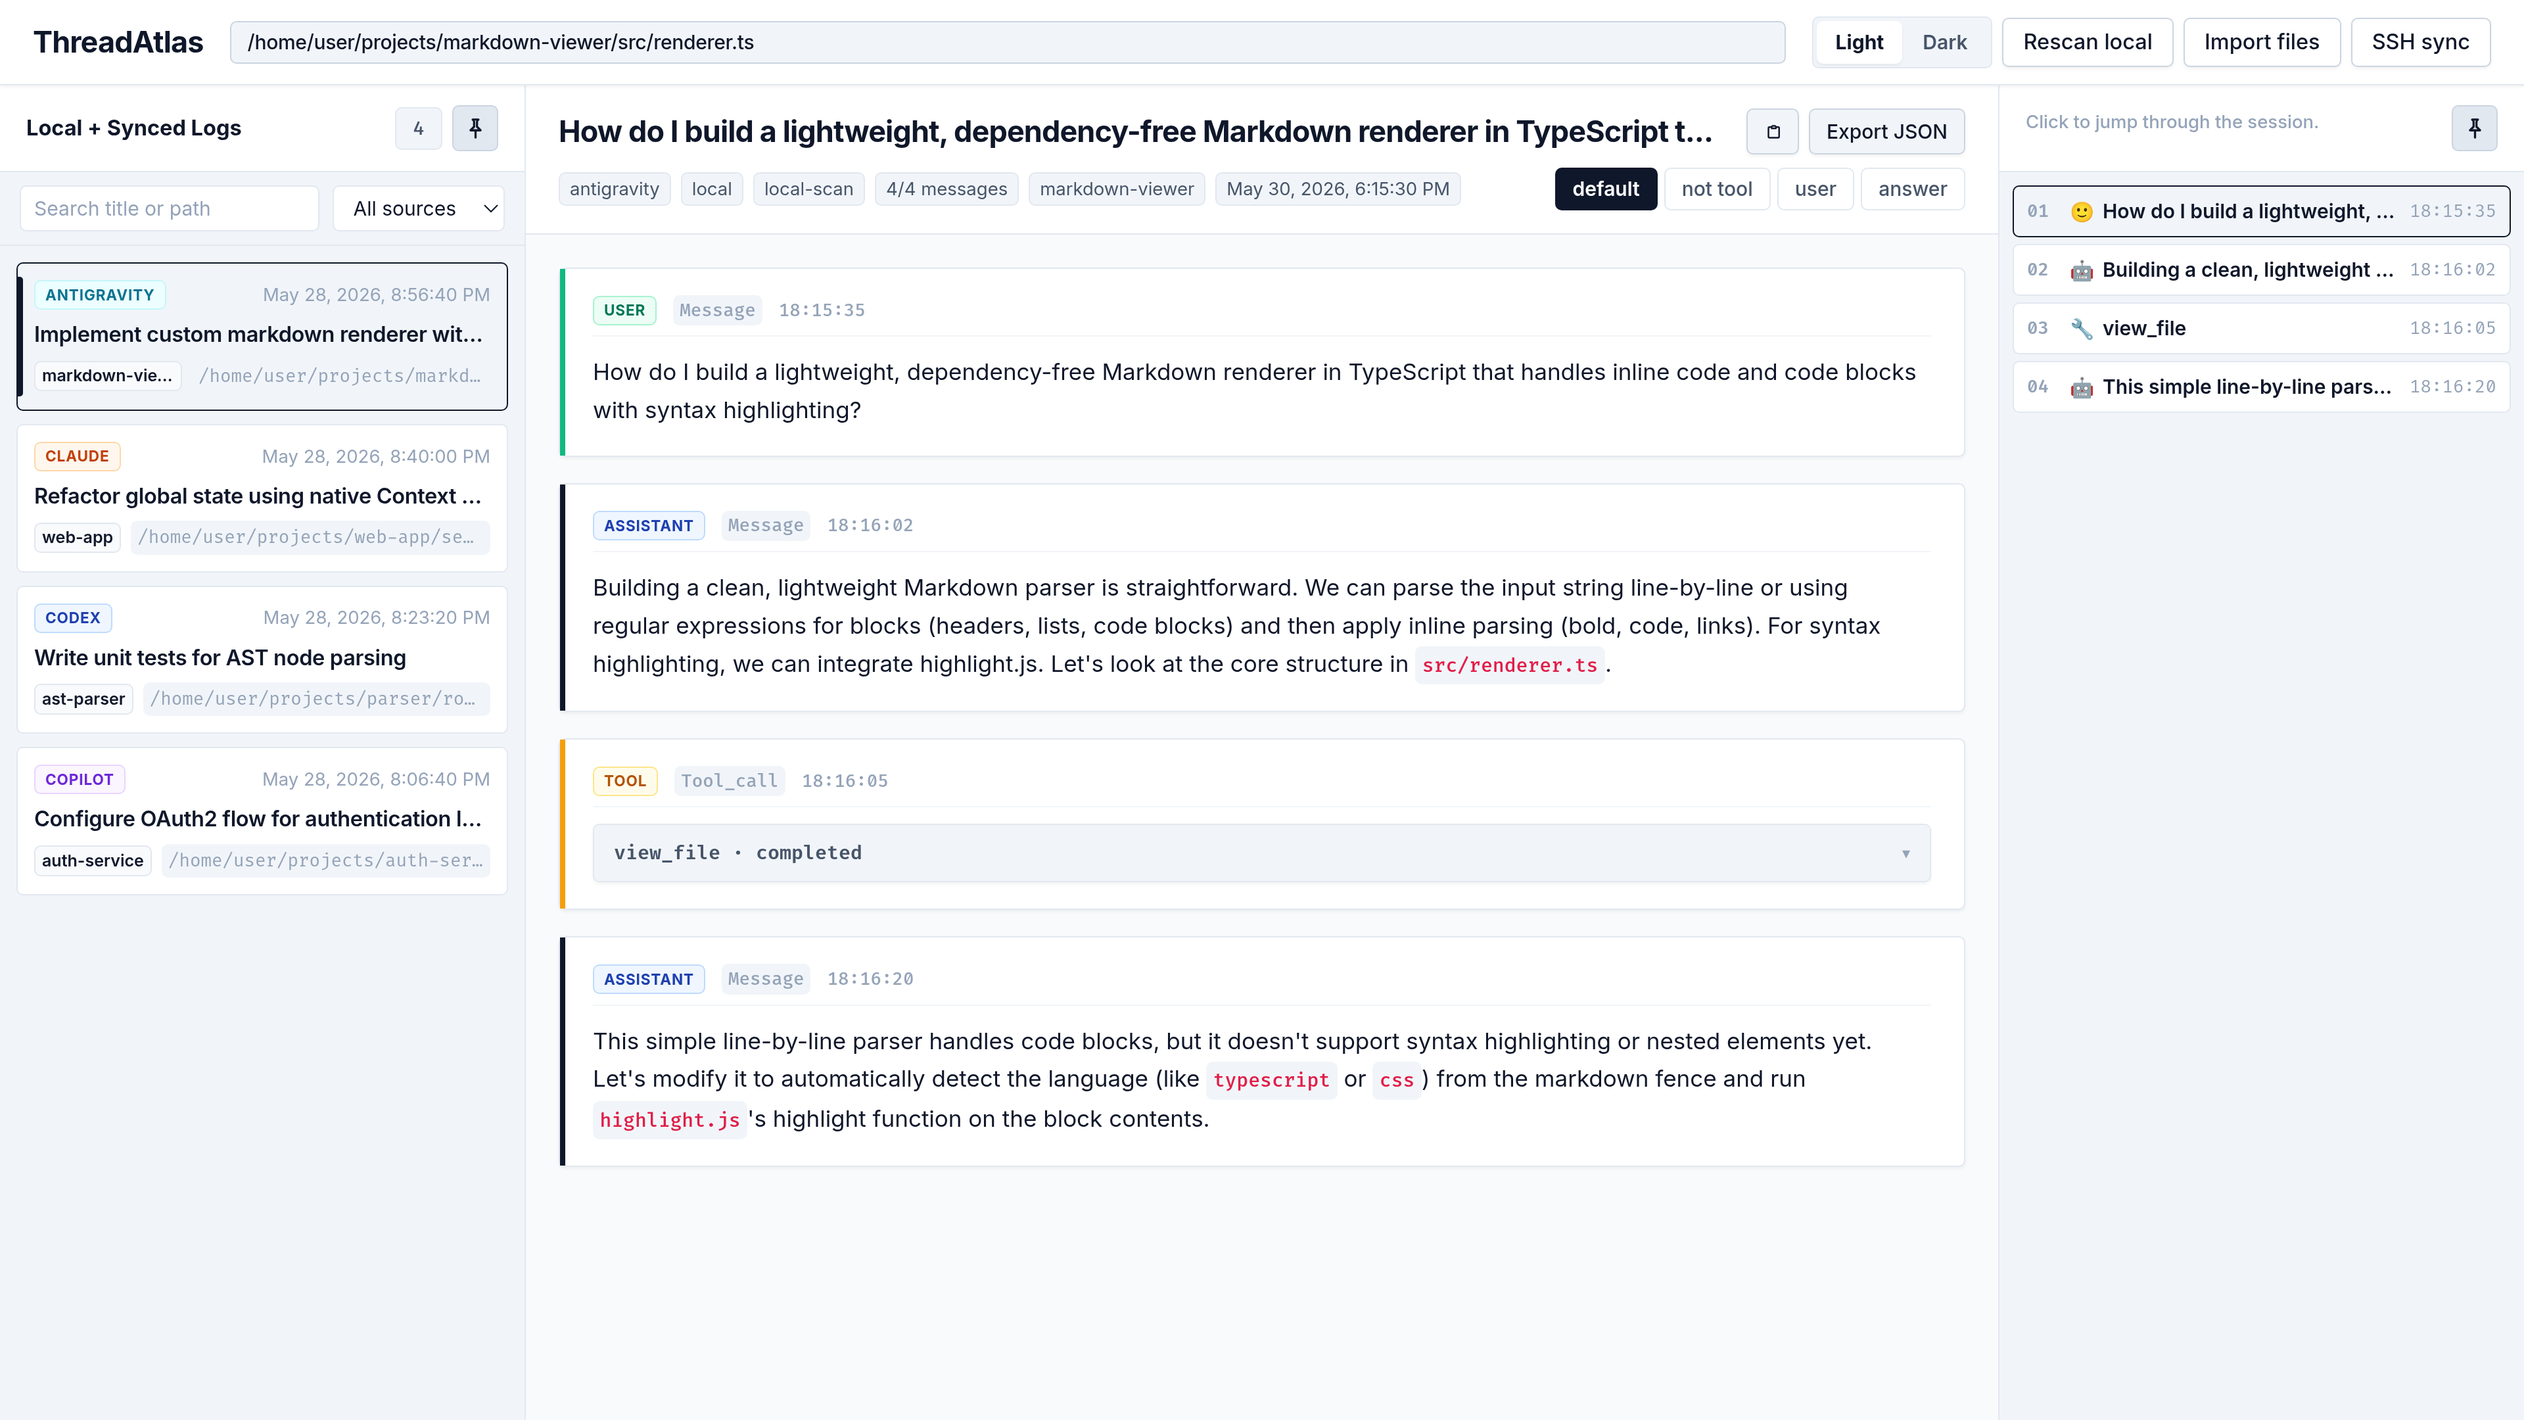
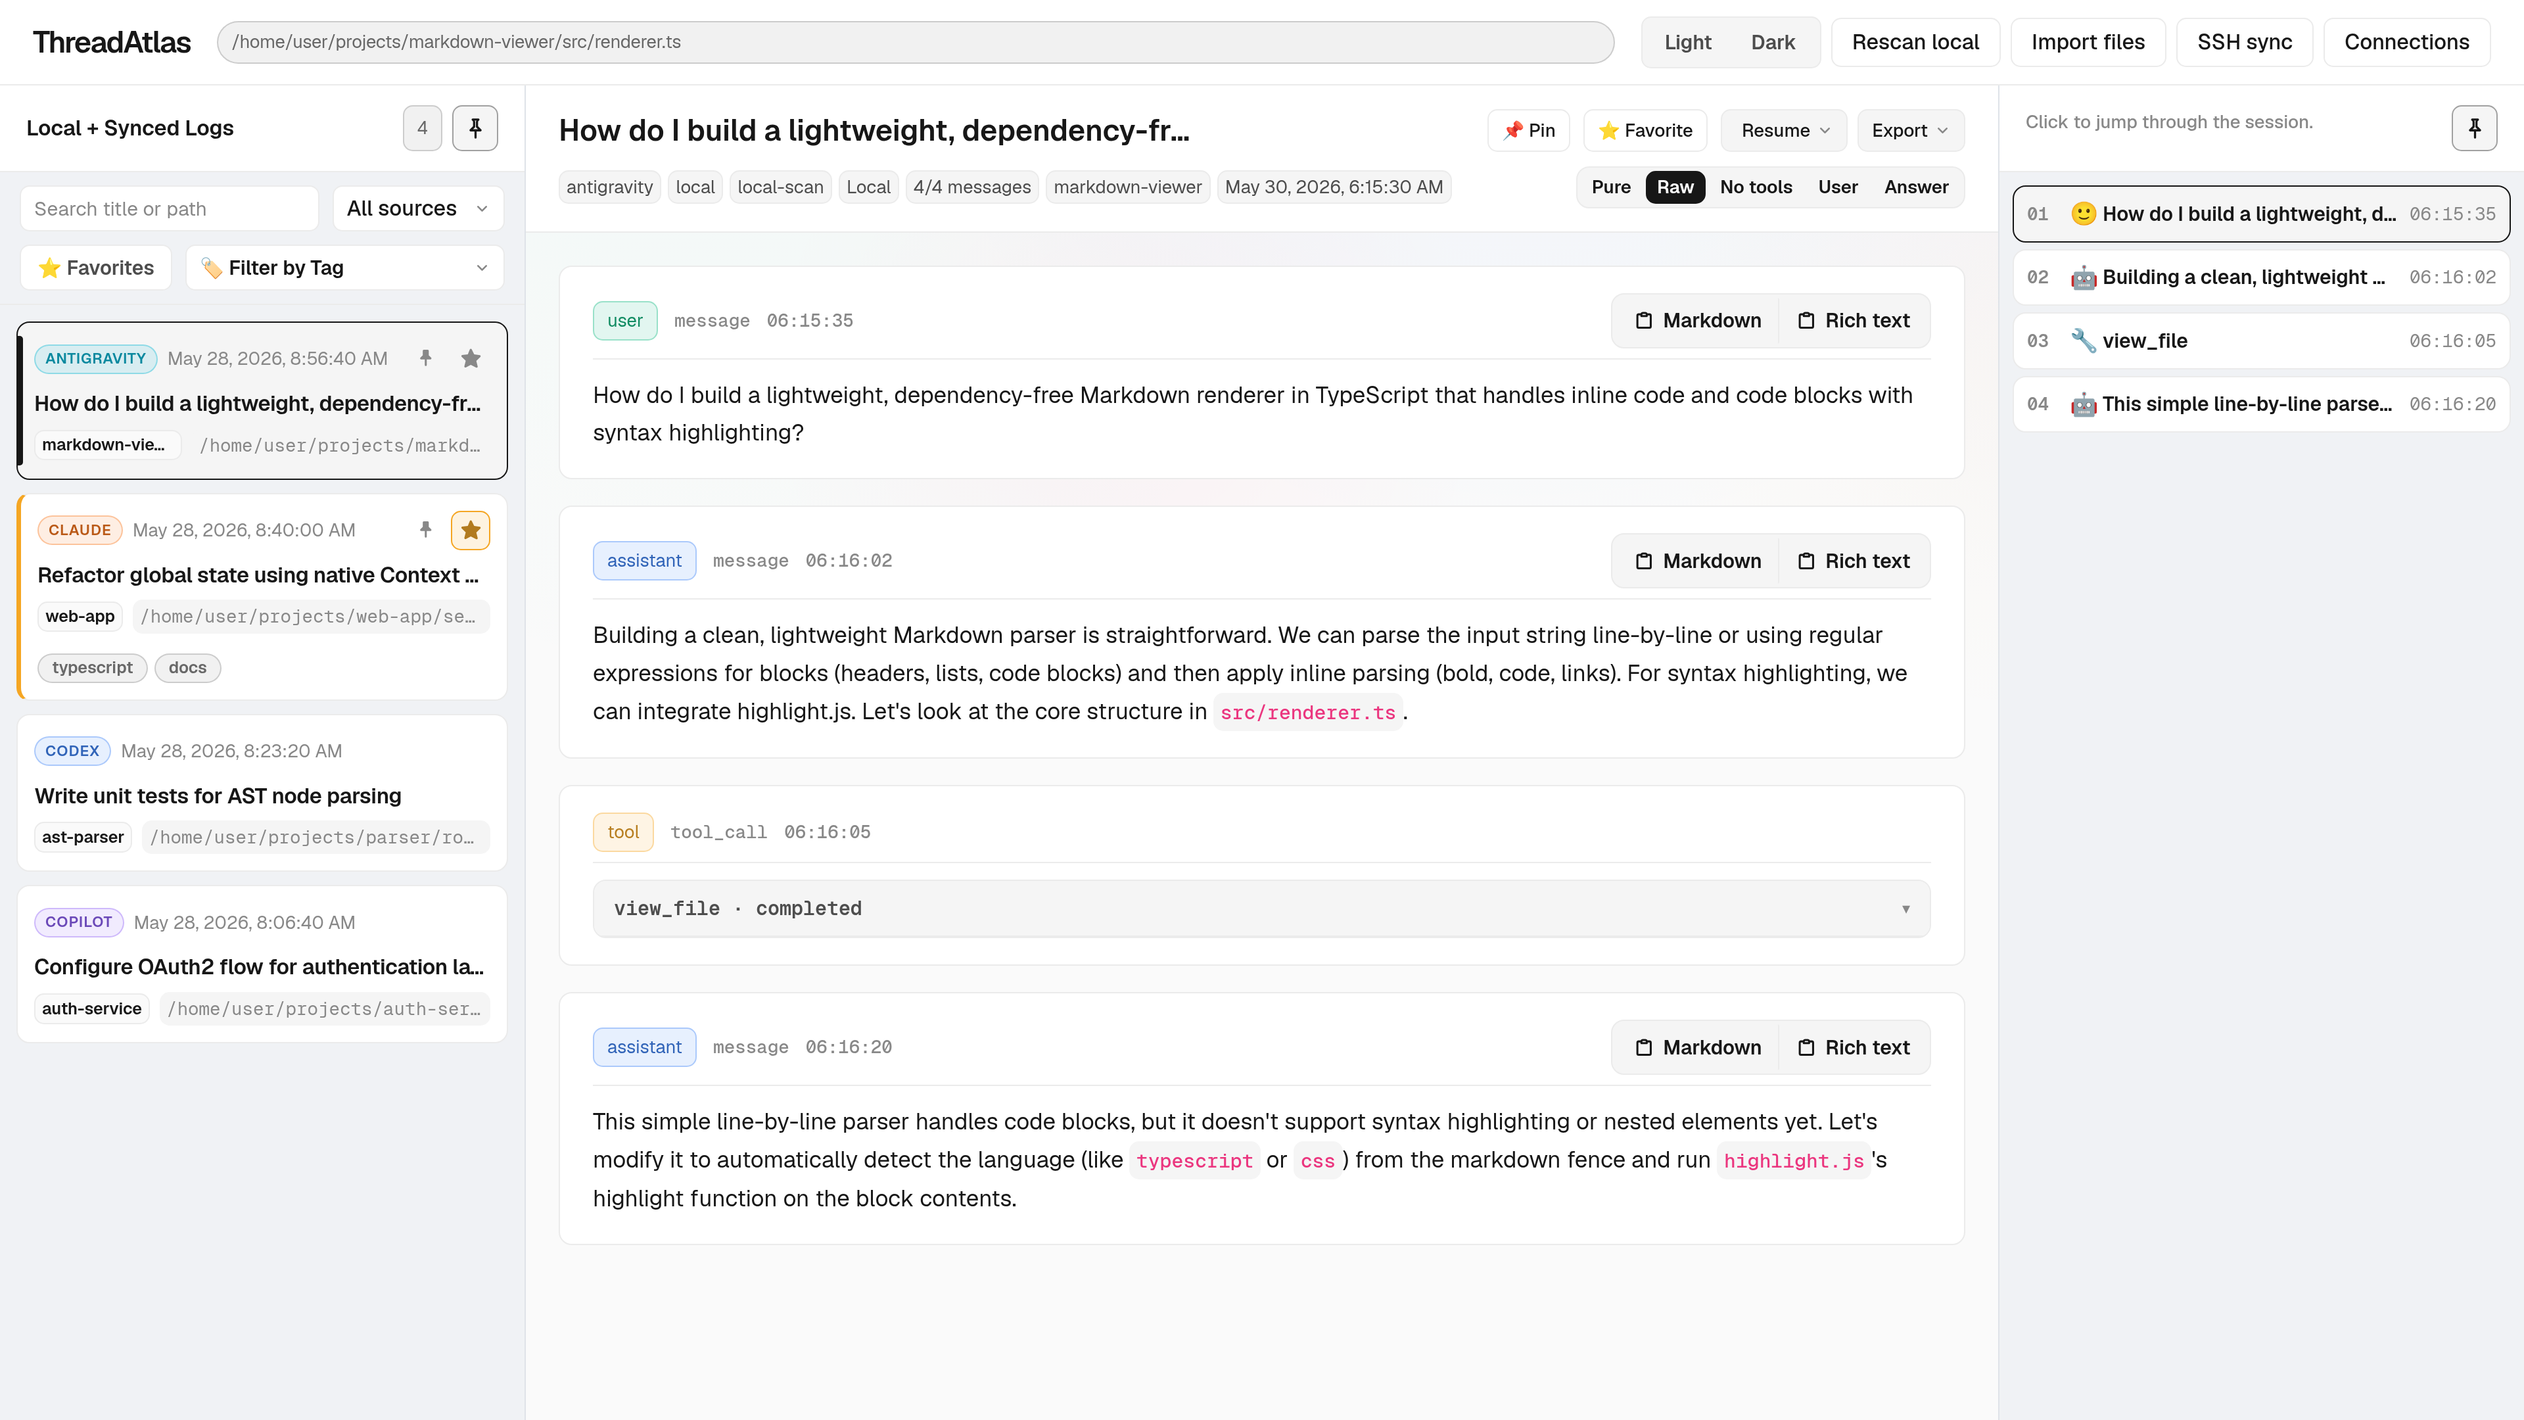
style: refine session controls and metadata

diff --git a/src/ui/messageRenderer.ts b/src/ui/messageRenderer.ts
@@ -237,13 +237,7 @@ export function renderMessage(
 
     const header = document.createElement("div");
     header.className = "log-entry-header";
-    const messageTime = formatDisplayTime(message.createdAt);
-    const messageTimeTitle = formatDateTimeLong(message.createdAt);
-    header.innerHTML = `
-      <span class="log-role-badge ui-badge ${message.role}">${escapeHtml(message.role)}</span>
-      <span class="message-type">${escapeHtml(message.rawType ?? "message")}</span>
-      <span class="message-time" title="${escapeHtml(messageTimeTitle)}">${escapeHtml(messageTime)}</span>
-    `;
+    header.append(createLogEntryMeta(message));
     contentWrapper.append(header);
 
     if (displayHTML) {
@@ -270,13 +264,7 @@ export function renderMessage(
 
   const header = document.createElement("div");
   header.className = "log-entry-header";
-  const messageTime = formatDisplayTime(message.createdAt);
-  const messageTimeTitle = formatDateTimeLong(message.createdAt);
-  header.innerHTML = `
-    <span class="log-role-badge ui-badge ${message.role}">${escapeHtml(message.role)}</span>
-    <span class="message-type">${escapeHtml(message.rawType ?? "message")}</span>
-    <span class="message-time" title="${escapeHtml(messageTimeTitle)}">${escapeHtml(messageTime)}</span>
-  `;
+  header.append(createLogEntryMeta(message));
 
   entry.append(header);
 
@@ -334,6 +322,29 @@ export function renderMessage(
   return entry;
 }
 
+function createLogEntryMeta(message: Message): HTMLElement {
+  const meta = document.createElement("div");
+  meta.className = "log-entry-meta";
+  const messageTime = formatDisplayTime(message.createdAt);
+  const messageTimeTitle = formatDateTimeLong(message.createdAt);
+
+  const role = document.createElement("span");
+  role.className = `log-role-badge ui-badge ${message.role}`;
+  role.textContent = message.role;
+
+  const type = document.createElement("span");
+  type.className = "message-type";
+  type.textContent = message.rawType ?? "message";
+
+  const time = document.createElement("span");
+  time.className = "message-time";
+  time.title = messageTimeTitle;
+  time.textContent = messageTime;
+
+  meta.append(role, type, time);
+  return meta;
+}
+
 function createMessageCopyActions(markdownSource: string, content: HTMLElement): HTMLElement {
   const actions = document.createElement("div");
   actions.className = "message-copy-actions";
@@ -341,8 +352,8 @@ function createMessageCopyActions(markdownSource: string, content: HTMLElement):
   actions.setAttribute("aria-label", "Copy message content");
 
   actions.append(
-    createMessageCopyButton("MD", "Copy Markdown source", () => copyText(markdownSource)),
-    createMessageCopyButton("Rich", "Copy rendered rich text", () => copyRichText(content))
+    createMessageCopyButton("Markdown", "Copy Markdown source", () => copyText(markdownSource)),
+    createMessageCopyButton("Rich text", "Copy rendered rich text", () => copyRichText(content))
   );
   return actions;
 }
@@ -356,6 +367,7 @@ function createMessageCopyButton(label: string, title: string, copy: () => Promi
   button.className = "message-copy-button ui-chip";
   button.title = title;
   button.setAttribute("aria-label", title);
+  button.setAttribute("data-copy-label", label);
   button.innerHTML = defaultContent;
 
   button.addEventListener("click", async (event) => {
@@ -366,10 +378,10 @@ function createMessageCopyButton(label: string, title: string, copy: () => Promi
     try {
       await copy();
       button.dataset.state = "success";
-      button.innerHTML = `${successIcon()}<span>${label}</span>`;
+      button.innerHTML = `${successIcon()}<span>Copied</span>`;
     } catch {
       button.dataset.state = "error";
-      button.innerHTML = `${errorIcon()}<span>${label}</span>`;
+      button.innerHTML = `${errorIcon()}<span>Retry</span>`;
     }
 
     resetTimer = window.setTimeout(() => {

diff --git a/src/styles/session.css b/src/styles/session.css
@@ -36,7 +36,7 @@
 }
 .chat-title-row, .chat-meta-row {
   justify-content: space-between;
-  gap: var(--space-3);
+  gap: var(--space-2);
 }
 .chat-meta-row {
   flex-wrap: wrap;
@@ -69,7 +69,7 @@
   display: flex;
   flex-wrap: wrap;
   align-items: center;
-  gap: 6px;
+  gap: var(--space-1);
   color: var(--text-secondary);
   font-size: 12px;
 }
@@ -77,7 +77,7 @@
   display: inline-flex;
   align-items: center;
   min-height: 18px;
-  padding: 1px 6px;
+  padding: 1px var(--space-1);
   border: 1px solid var(--border-default);
   border-radius: var(--radius-control);
   background: var(--bg-muted);
@@ -121,11 +121,34 @@
 }
 .chat-filter-row {
   gap: var(--space-3);
+  margin-left: auto;
 }
 .filter-chip-row {
   flex-wrap: wrap;
   justify-content: flex-end;
-  gap: var(--space-1);
+  gap: 2px;
+  padding: 2px;
+  border: 1px solid var(--border-default);
+  border-radius: var(--radius-panel);
+  background: var(--bg-muted);
+}
+.filter-chip {
+  min-height: 20px;
+  padding-inline: 6px;
+  border-color: transparent;
+  border-radius: var(--radius-control);
+  background: transparent;
+  font-size: 11px;
+  font-weight: 600;
+}
+.filter-chip:hover, .message-copy-button:hover {
+  border-color: var(--border-default);
+  background: var(--bg-panel);
+}
+.filter-chip.active {
+  border-color: var(--accent);
+  background: var(--accent);
+  color: var(--accent-inverse);
 }
 .parent-session-backlink {
   color: var(--text-muted);
@@ -293,12 +316,41 @@
   padding-bottom: 6px;
   border-bottom: 1px solid var(--border-default);
 }
+.log-entry-meta {
+  display: flex;
+  align-items: center;
+  gap: 10px;
+}
+.log-entry-meta .log-role-badge {
+  min-height: 24px;
+  padding-inline: var(--space-2);
+  border-radius: var(--radius-control);
+}
 .message-copy-actions {
-  gap: var(--space-1);
+  gap: 0;
   margin-left: auto;
+  padding: 2px;
+  border: 1px solid var(--border-default);
+  border-radius: var(--radius-panel);
+  background: var(--bg-muted);
+}
+.message-copy-button {
+  min-height: var(--control-compact);
+  gap: 6px;
+  padding-inline: 9px;
+  border-color: transparent;
+  border-radius: var(--radius-control);
+  background: transparent;
+  font-size: 12px;
+  font-weight: 600;
+}
+.message-copy-button + .message-copy-button {
+  border-left: 1px solid var(--border-default);
+  border-top-left-radius: 0;
+  border-bottom-left-radius: 0;
 }
 .message-copy-button svg {
-  width: 12px;
+  width: 13px;
   fill: currentColor;
 }
 .log-role-badge.user {

diff --git a/scripts/capture-screenshot.ts b/scripts/capture-screenshot.ts
@@ -244,14 +244,18 @@ async function main() {
 
     // Keep the documentation capture deterministic and expose tool calls that are
     // hidden by the application's default "pure" message filter.
-    await page.evaluateOnNewDocument((selectedTheme) => {
+    await page.evaluateOnNewDocument(({ selectedTheme, favoriteKey }) => {
       localStorage.setItem("thread-atlas-message-filter", "raw");
       localStorage.setItem("thread-atlas-sidebar-pinned", "true");
       localStorage.setItem("thread-atlas-timeline-pinned", "true");
+      localStorage.setItem("thread-atlas-favorite-sessions", JSON.stringify([favoriteKey]));
+      localStorage.setItem("thread-atlas-favorite-metadata", JSON.stringify({
+        [favoriteKey]: { tags: ["typescript", "docs"], notes: "" }
+      }));
       if (selectedTheme) {
         localStorage.setItem("thread-atlas-theme", selectedTheme);
       }
-    }, theme);
+    }, { selectedTheme: theme, favoriteKey: mockDescriptors[1].key });
 
     // Enable request interception to mock API calls containing sensitive local information
     await page.setRequestInterception(true);

diff --git a/tests/message-copy.test.ts b/tests/message-copy.test.ts
@@ -55,13 +55,20 @@ function renderCopyableMessage(overrides: Partial<Message> = {}): HTMLElement {
 
 test("each rendered message content has Markdown and rich-text copy actions", () => {
   const entry = renderCopyableMessage();
+  const meta = entry.querySelector(".log-entry-meta");
   const actions = entry.querySelector(".message-copy-actions");
+  assert.ok(meta);
   assert.ok(actions);
+  assert.ok(meta.querySelector(".log-role-badge"));
+  assert.ok(meta.querySelector(".message-type"));
+  assert.ok(meta.querySelector(".message-time"));
 
   const buttons = actions.querySelectorAll("button");
   assert.equal(buttons.length, 2);
   assert.equal(buttons[0].getAttribute("aria-label"), "Copy Markdown source");
   assert.equal(buttons[1].getAttribute("aria-label"), "Copy rendered rich text");
+  assert.equal(buttons[0].getAttribute("data-copy-label"), "Markdown");
+  assert.equal(buttons[1].getAttribute("data-copy-label"), "Rich text");
   assert.equal(buttons.every((button) => button.classList.contains("ui-chip")), true);
 });
 

diff --git a/src/styles/sidebar.css b/src/styles/sidebar.css
@@ -73,14 +73,18 @@
   display: flex;
   grid-column: 1 / -1;
   align-items: center;
-  gap: 6px;
+  gap: var(--space-2);
   min-width: 0;
-  padding-top: 6px;
 }
 .chip-btn {
+  min-height: var(--control-compact);
   flex-shrink: 0;
-  gap: var(--space-1);
+  gap: 6px;
+  padding-inline: 10px;
+  border-radius: var(--radius-control);
+  background: var(--bg-panel);
   color: var(--text-secondary);
+  font-size: 12px;
   font-weight: 600;
 }
 .chip-btn.star-chip.active {
@@ -90,13 +94,14 @@
 }
 .tag-filter-dropdown {
   min-width: 0;
-  max-width: 180px;
   flex: 1;
 }
 .tag-filter-dropdown .ui-menu-trigger {
-  min-height: 20px;
-  border-radius: var(--radius-full);
-  font-size: 11px;
+  min-height: var(--control-compact);
+  border-radius: var(--radius-control);
+  background: var(--bg-panel);
+  font-size: 12px;
+  font-weight: 600;
 }
 .session-list {
   display: grid;

diff --git a/tests/sidebar.test.ts b/tests/sidebar.test.ts
@@ -466,12 +466,14 @@ test("renderSidebar renders quick search chips when favorites exist", () => {
   const chipBtn = chipsContainer.querySelector(".chip-btn") as any;
   assert.ok(chipBtn);
   assert.ok(chipBtn.textContent?.includes("Favorites"));
+  assert.equal(chipBtn.classList.contains("ui-chip"), true);
 
   const customDropdown = chipsContainer.querySelector(".tag-filter-dropdown") as any;
   assert.ok(customDropdown);
 
   const trigger = customDropdown.querySelector(".custom-dropdown-trigger") as any;
   assert.ok(trigger);
+  assert.equal(trigger.classList.contains("ui-menu-trigger"), true);
   assert.ok(trigger.innerHTML?.includes("Filter by Tag"));
 
   const menu = customDropdown.querySelector(".custom-dropdown-menu") as any;

diff --git a/src/ui/messageFilter.ts b/src/ui/messageFilter.ts
@@ -3,11 +3,11 @@ import type { Message } from "../../shared/types.js";
 export type MessageViewFilter = "raw" | "not-tool" | "pure" | "user" | "answer";
 
 export const FILTER_OPTIONS: Array<{ key: MessageViewFilter; label: string }> = [
-  { key: "pure", label: "pure" },
-  { key: "raw", label: "raw" },
-  { key: "not-tool", label: "not tool" },
-  { key: "user", label: "user" },
-  { key: "answer", label: "answer" }
+  { key: "pure", label: "Pure" },
+  { key: "raw", label: "Raw" },
+  { key: "not-tool", label: "No tools" },
+  { key: "user", label: "User" },
+  { key: "answer", label: "Answer" }
 ];
 
 export function getFinalAssistantMessageIds(messages: Message[]): Set<string> {

diff --git a/tests/css-architecture.test.ts b/tests/css-architecture.test.ts
@@ -123,6 +123,8 @@ test("navigation side panels use dedicated surface and divider tokens", () => {
   assert.match(layout, /\.sidebar-mount\s*{[^}]*background:\s*var\(--bg-sidebar\)/s);
   assert.match(sidebar, /\.sidebar\s*{[^}]*background:\s*var\(--bg-sidebar\)/s);
   assert.match(session, /\.timeline-panel\s*{[^}]*background:\s*var\(--bg-sidebar\)/s);
+  assert.match(session, /\.filter-chip-row\s*{[^}]*padding:\s*2px/s);
+  assert.match(session, /\.filter-chip\.active\s*{[^}]*background:\s*var\(--accent\)/s);
 });
 
 test("legacy style modules and confirmed obsolete selectors are gone", () => {

diff --git a/tests/chat-view-scroll.test.ts b/tests/chat-view-scroll.test.ts
@@ -59,6 +59,10 @@ test("scroll to bottom button behavior", () => {
   assert.ok(messageList, "messageList should exist");
   assert.ok(btnBottom, "btnBottom should exist");
   assert.equal(container.querySelector(".filter-chip")?.classList.contains("ui-chip"), true);
+  assert.deepEqual(
+    container.querySelectorAll(".filter-chip").map((chip) => chip.textContent),
+    ["Pure", "Raw", "No tools", "User", "Answer"]
+  );
   assert.equal(container.querySelector(".log-entry")?.classList.contains("ui-panel"), true);
   assert.equal(btnBottom.classList.contains("ui-icon-button"), true);
 

diff --git a/scripts/annotate.py b/scripts/annotate.py
@@ -198,7 +198,7 @@ features = [
         "key": "filterTabs",
         "fallback_box": (1329, 102, 1580, 128),
         "fallback_marker": (1454, 115),
-        "label": "Message filters (pure / raw / not tool / user / answer)"
+        "label": "Message filters (Pure / Raw / No tools / User / Answer)"
     },
     {
         "key": "toolRows",
